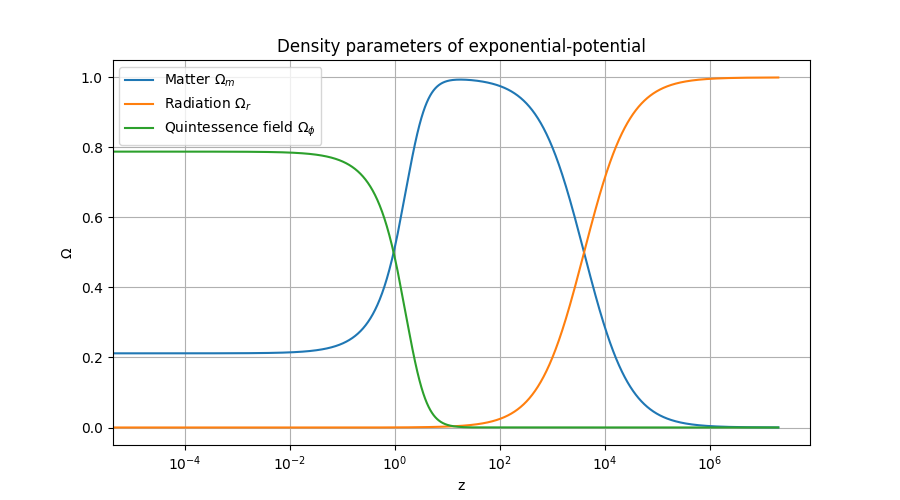
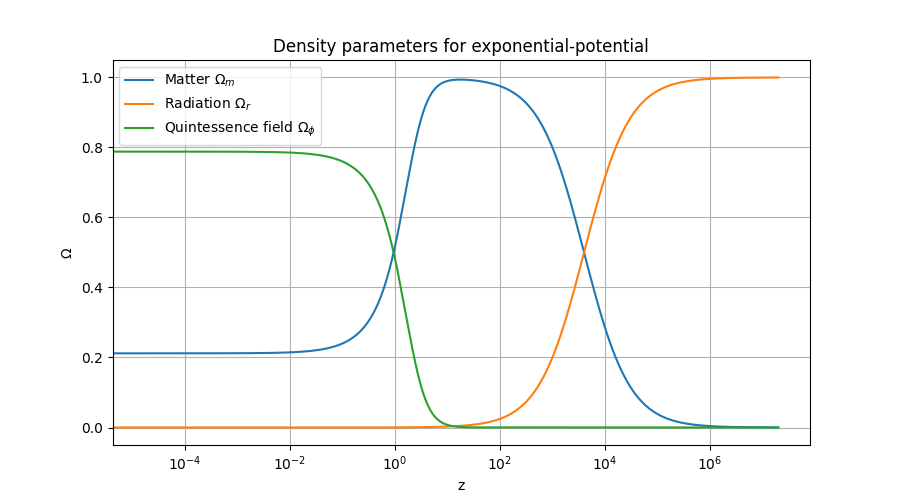
changed plot title

Changed region(s): [[0.3111, 0.06, 0.7156, 0.12]]

diff --git a/Projects/Project 1/Source-code/problem9.py b/Projects/Project 1/Source-code/problem9.py
@@ -113,7 +113,7 @@ def plot_density_parameters(V: str, filename=None, figsize=(9, 5), prnt=True) ->
     # Labels and figure title
     plt.xlabel("z")
     plt.ylabel(r"$\Omega$")
-    plt.title(f"Density parameters of {V}-potential")
+    plt.title(f"Density parameters for {V}-potential")
 
     plt.savefig(filename)
 
@@ -182,7 +182,7 @@ def plot_eos_parameter(V: str, filename=None, figsize=(9, 5), prnt=True) -> None
     # Labels and figure title
     plt.xlabel("z")
     plt.ylabel(r"$\Omega$")
-    plt.title(f"EoS parameter $\omega_\phi$ of {V}-potential")
+    plt.title(f"EoS parameter $\omega_\phi$ for {V}-potential")
 
     plt.savefig(filename)
 
